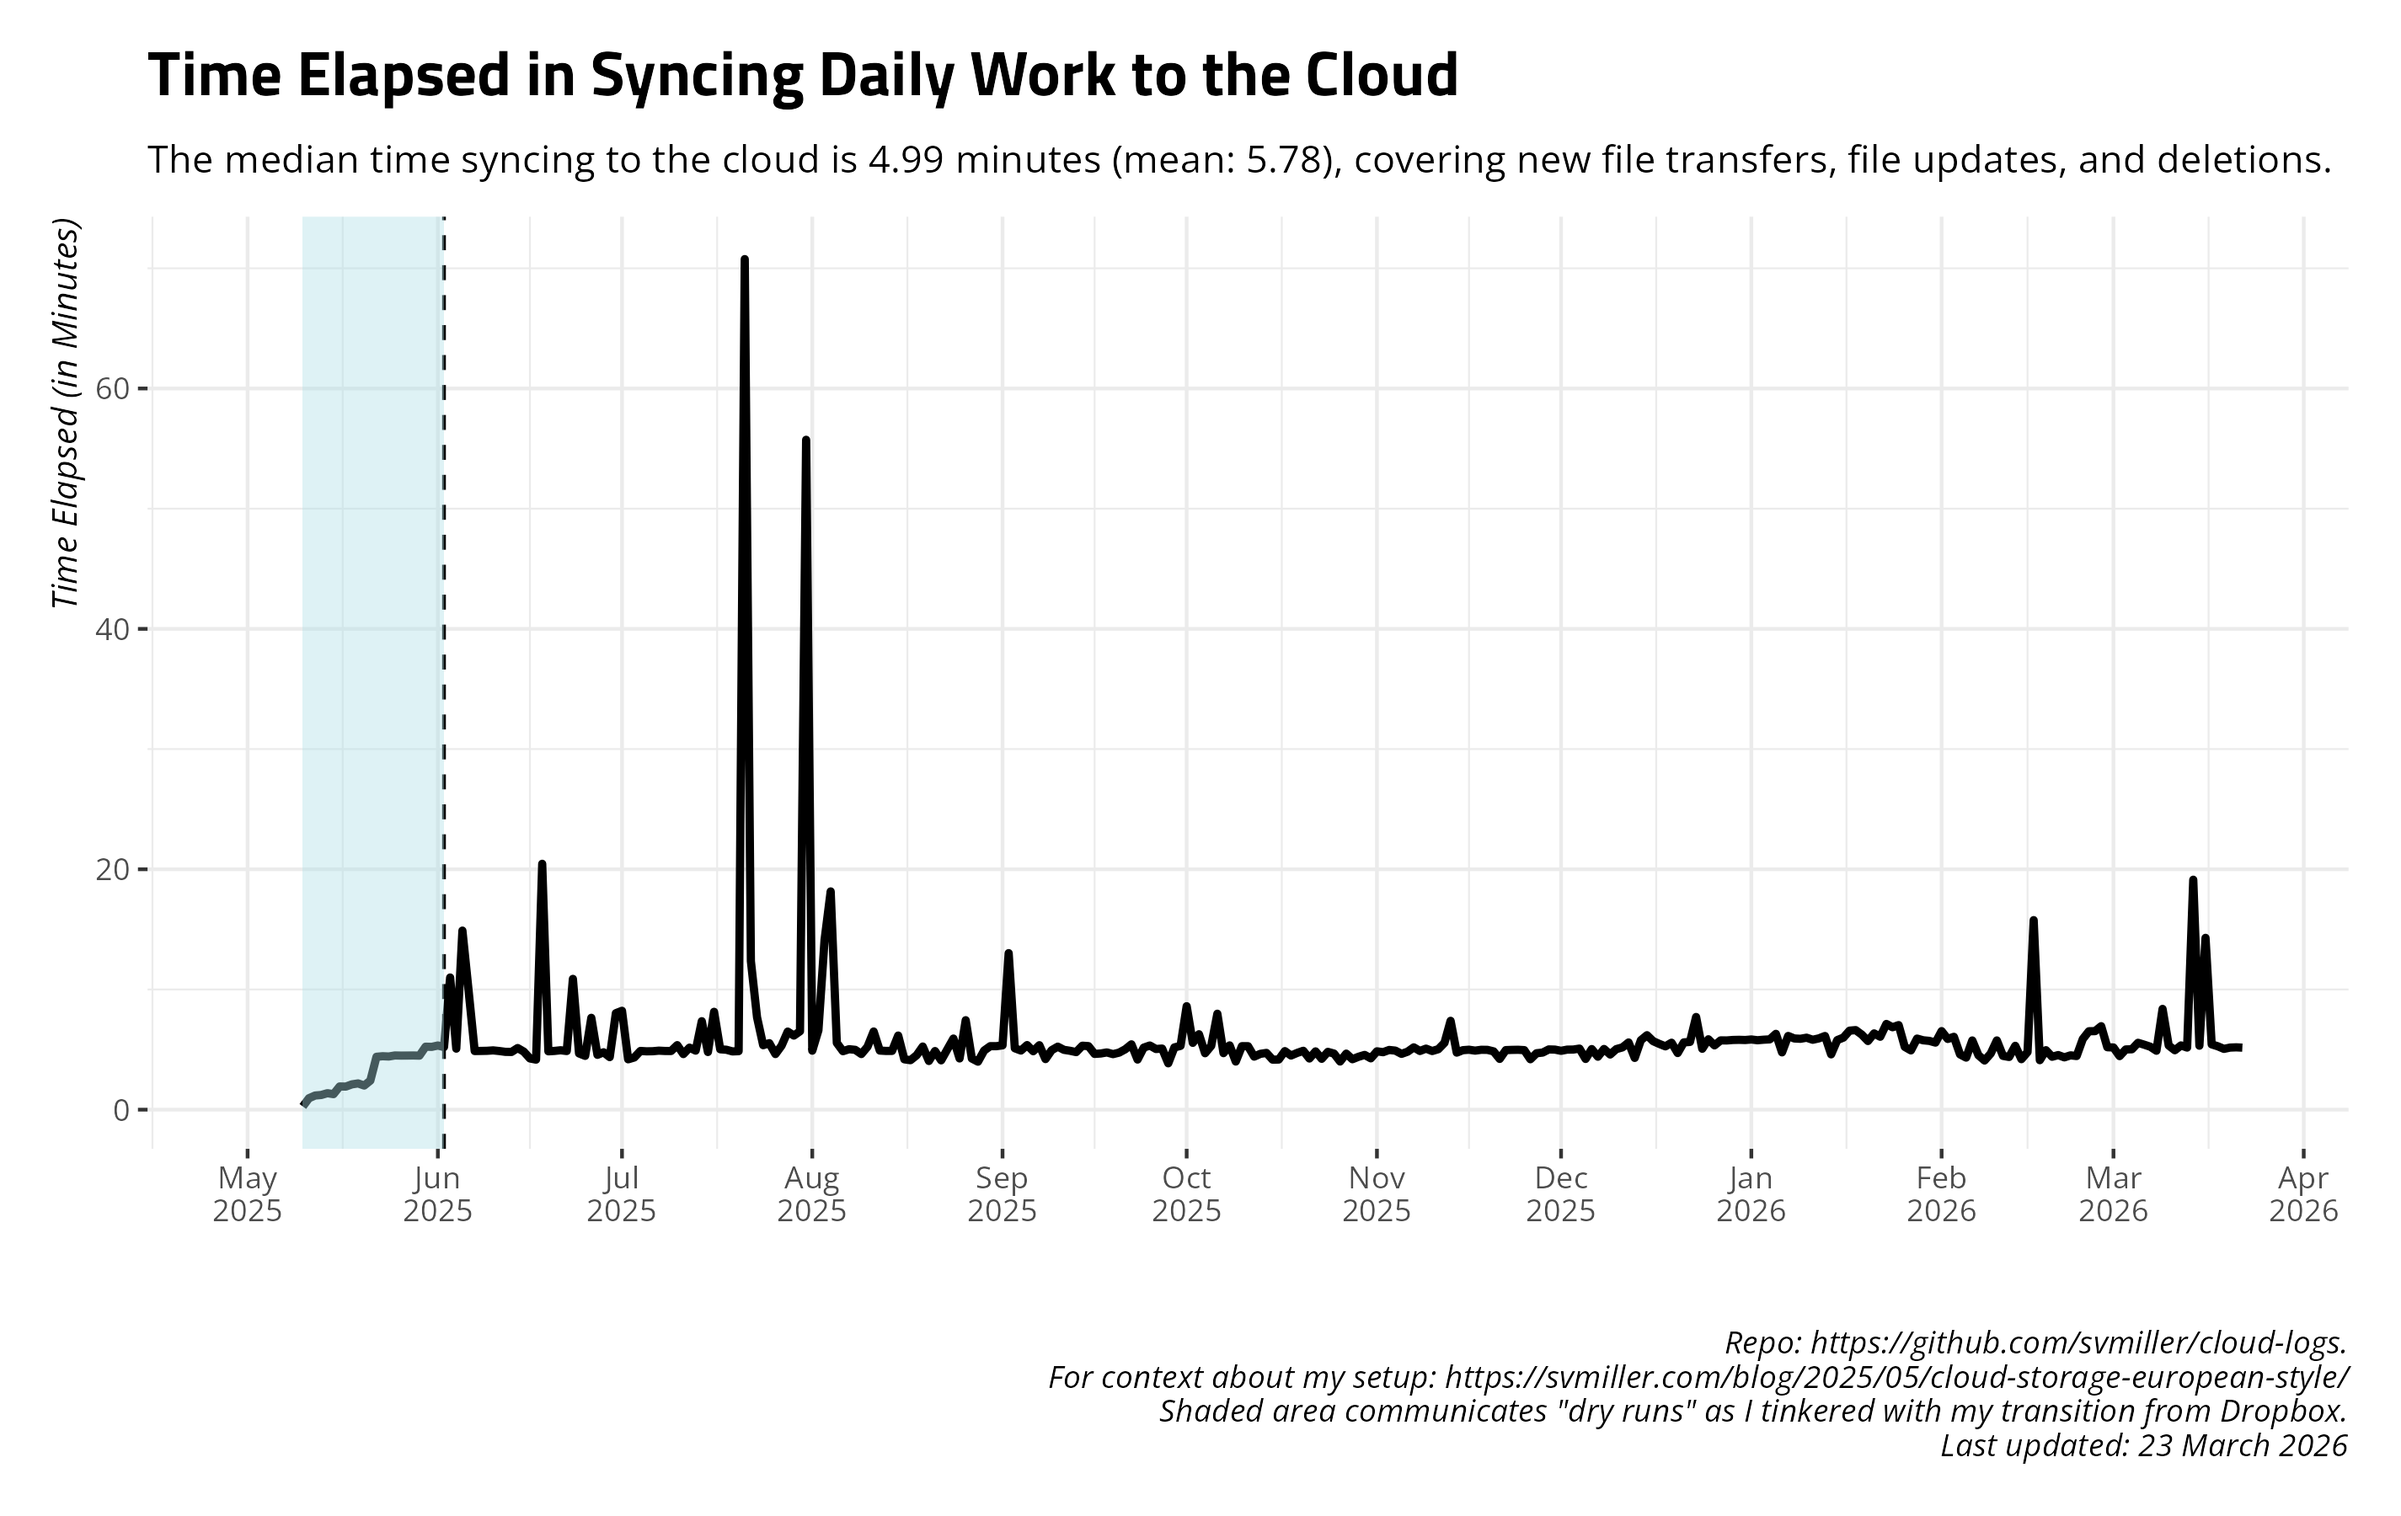
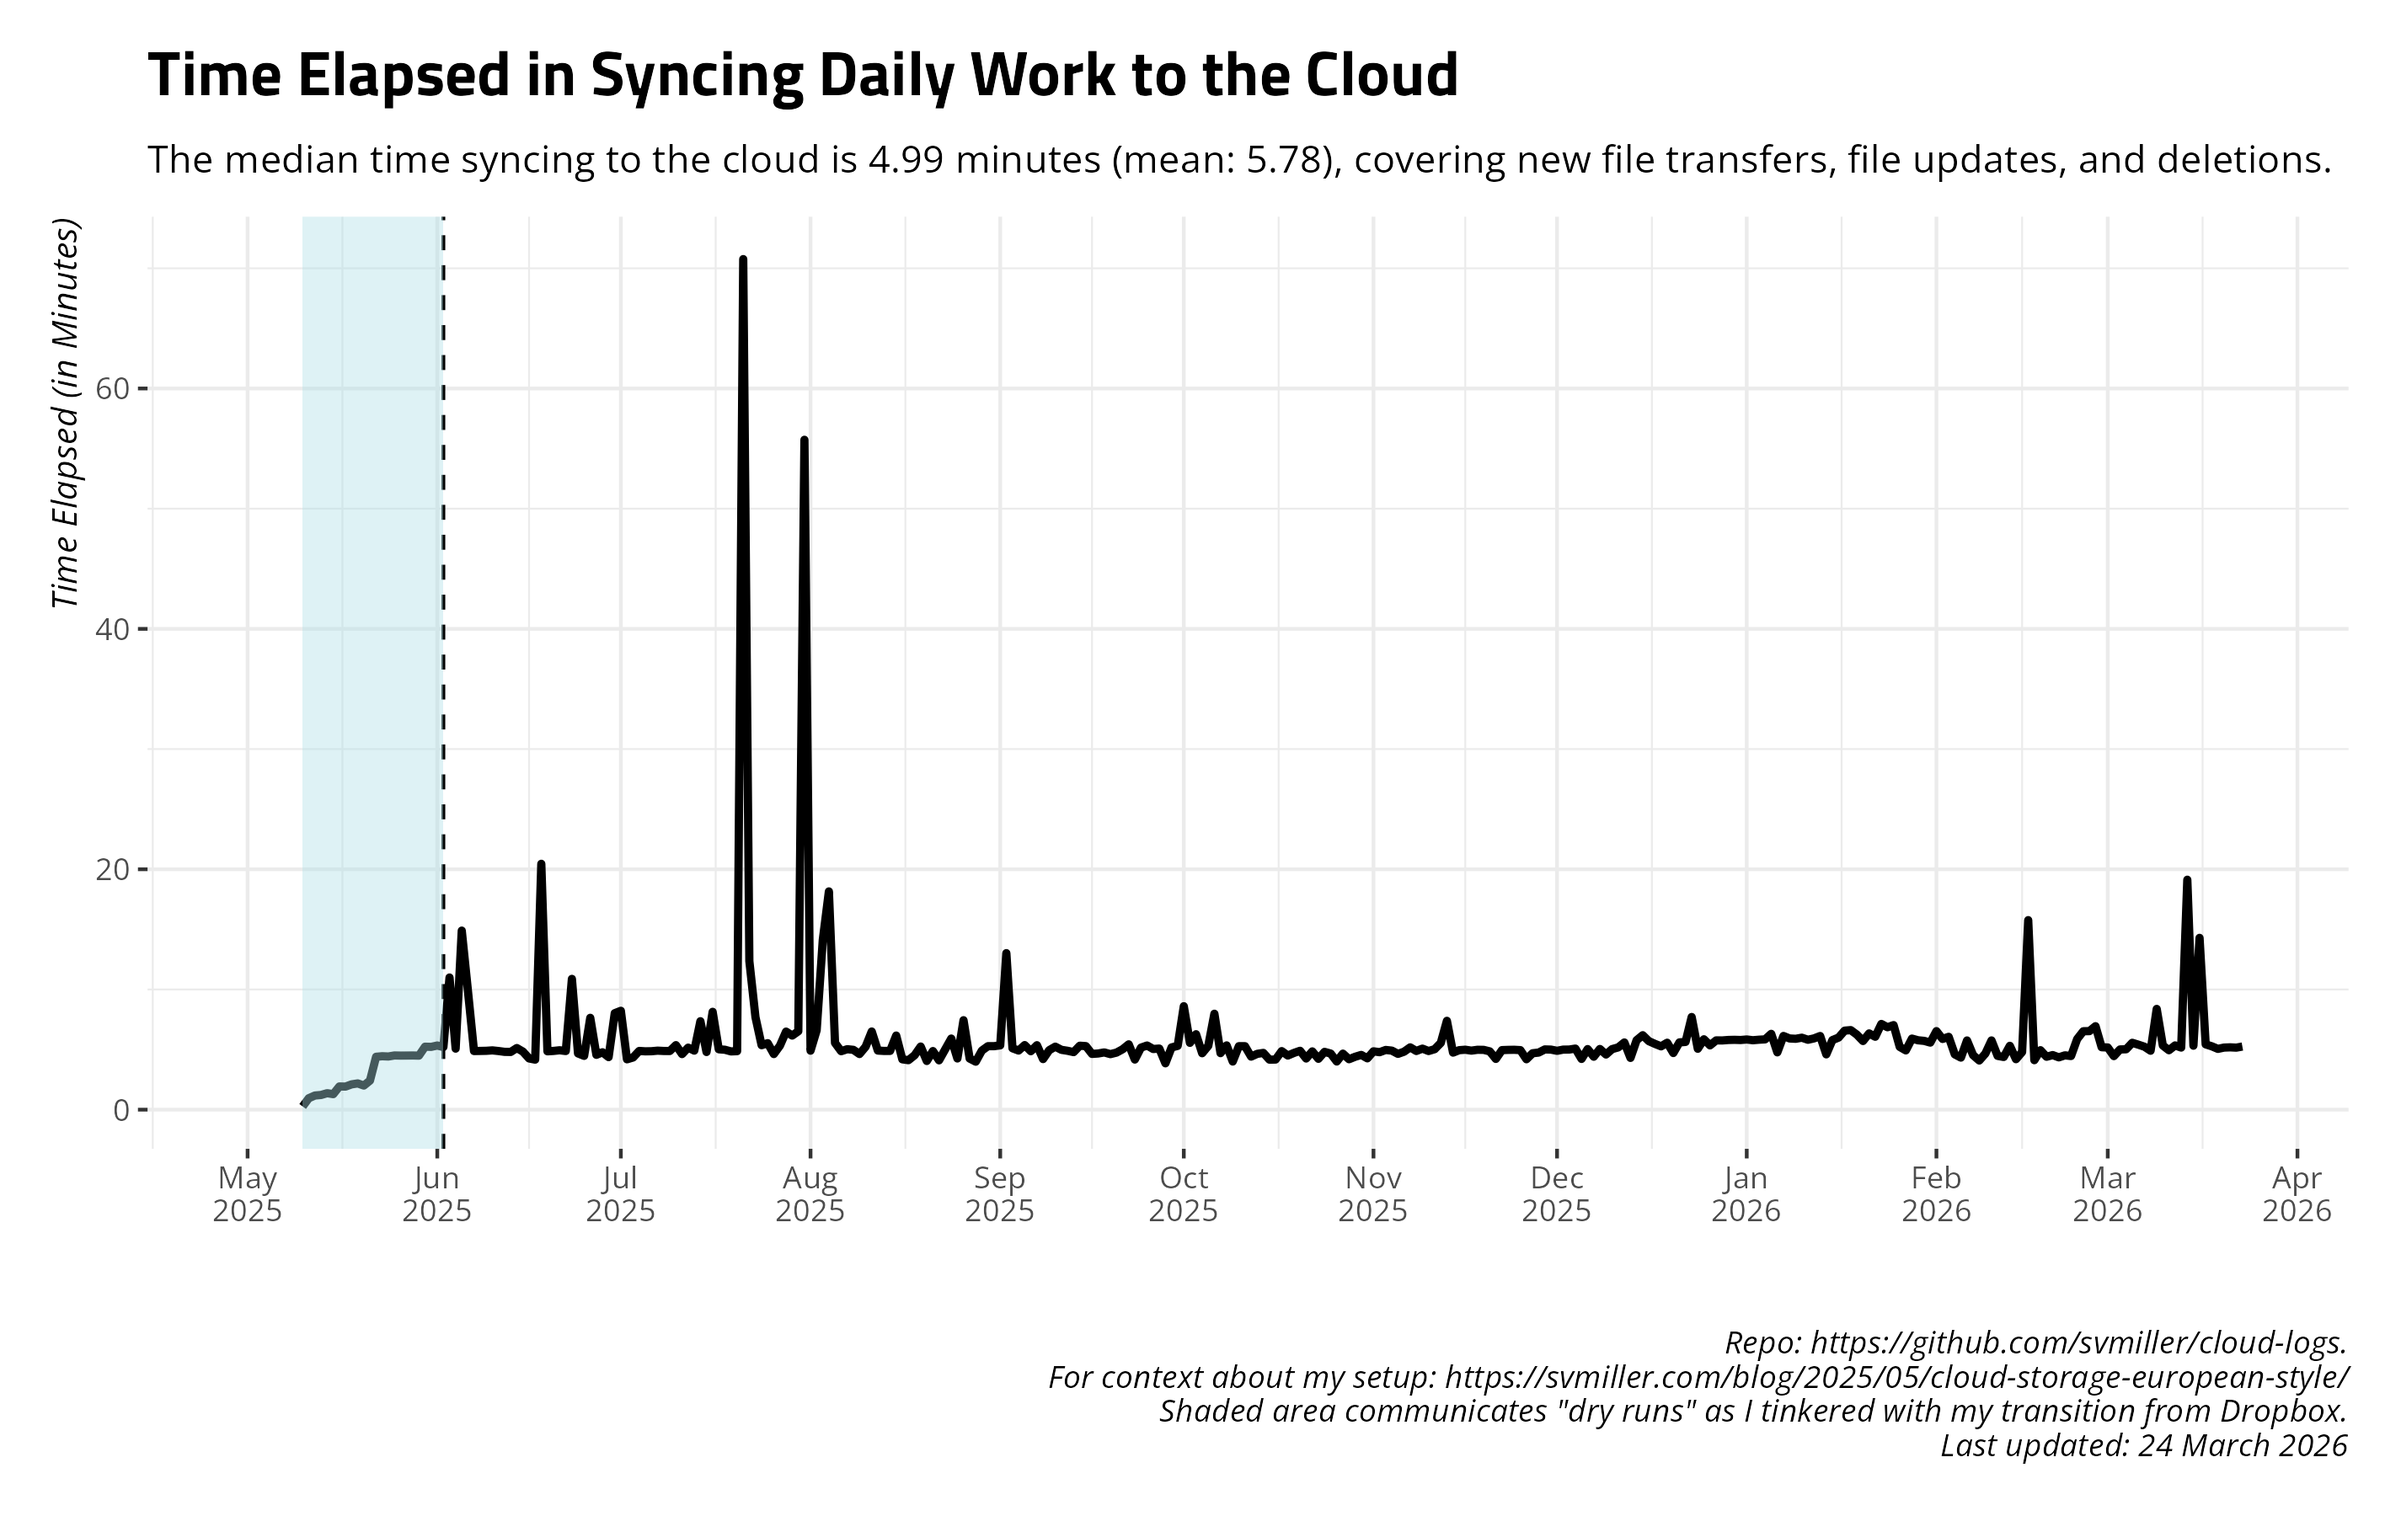
Date: 2026-03-24 09:00:25. Hi mom!

diff --git a/README.md b/README.md
@@ -27,17 +27,17 @@ and uploads to Github.
     #> # A tibble: 14 × 4
     #>    date       ftransfer stransfer   elapsed 
     #>    <date>         <dbl> <chr>       <chr>   
-    #>  1 2026-03-09       341 3.990 MiB   8m23.0s 
-    #>  2 2026-03-10         0 <NA>        5m20.3s 
-    #>  3 2026-03-11        39 64.329 KiB  4m56.5s 
-    #>  4 2026-03-12        65 39.725 KiB  5m20.7s 
-    #>  5 2026-03-13        12 68.007 KiB  5m9.9s  
-    #>  6 2026-03-14       104 683.430 KiB 19m7.9s 
-    #>  7 2026-03-15         0 <NA>        5m19.2s 
-    #>  8 2026-03-16       106 15.047 MiB  14m17.7s
-    #>  9 2026-03-17         7 145.749 KiB 5m26.0s 
-    #> 10 2026-03-18         3 30.764 MiB  5m16.3s 
-    #> 11 2026-03-19        70 1.489 MiB   5m3.4s  
-    #> 12 2026-03-20         9 298.045 KiB 5m9.9s  
-    #> 13 2026-03-21         0 <NA>        5m11.1s 
-    #> 14 2026-03-22         4 84.136 KiB  5m9.6s
+    #>  1 2026-03-10         0 <NA>        5m20.3s 
+    #>  2 2026-03-11        39 64.329 KiB  4m56.5s 
+    #>  3 2026-03-12        65 39.725 KiB  5m20.7s 
+    #>  4 2026-03-13        12 68.007 KiB  5m9.9s  
+    #>  5 2026-03-14       104 683.430 KiB 19m7.9s 
+    #>  6 2026-03-15         0 <NA>        5m19.2s 
+    #>  7 2026-03-16       106 15.047 MiB  14m17.7s
+    #>  8 2026-03-17         7 145.749 KiB 5m26.0s 
+    #>  9 2026-03-18         3 30.764 MiB  5m16.3s 
+    #> 10 2026-03-19        70 1.489 MiB   5m3.4s  
+    #> 11 2026-03-20         9 298.045 KiB 5m9.9s  
+    #> 12 2026-03-21         0 <NA>        5m11.1s 
+    #> 13 2026-03-22         4 84.136 KiB  5m9.6s  
+    #> 14 2026-03-23         4 6.955 MiB   5m15.1s
